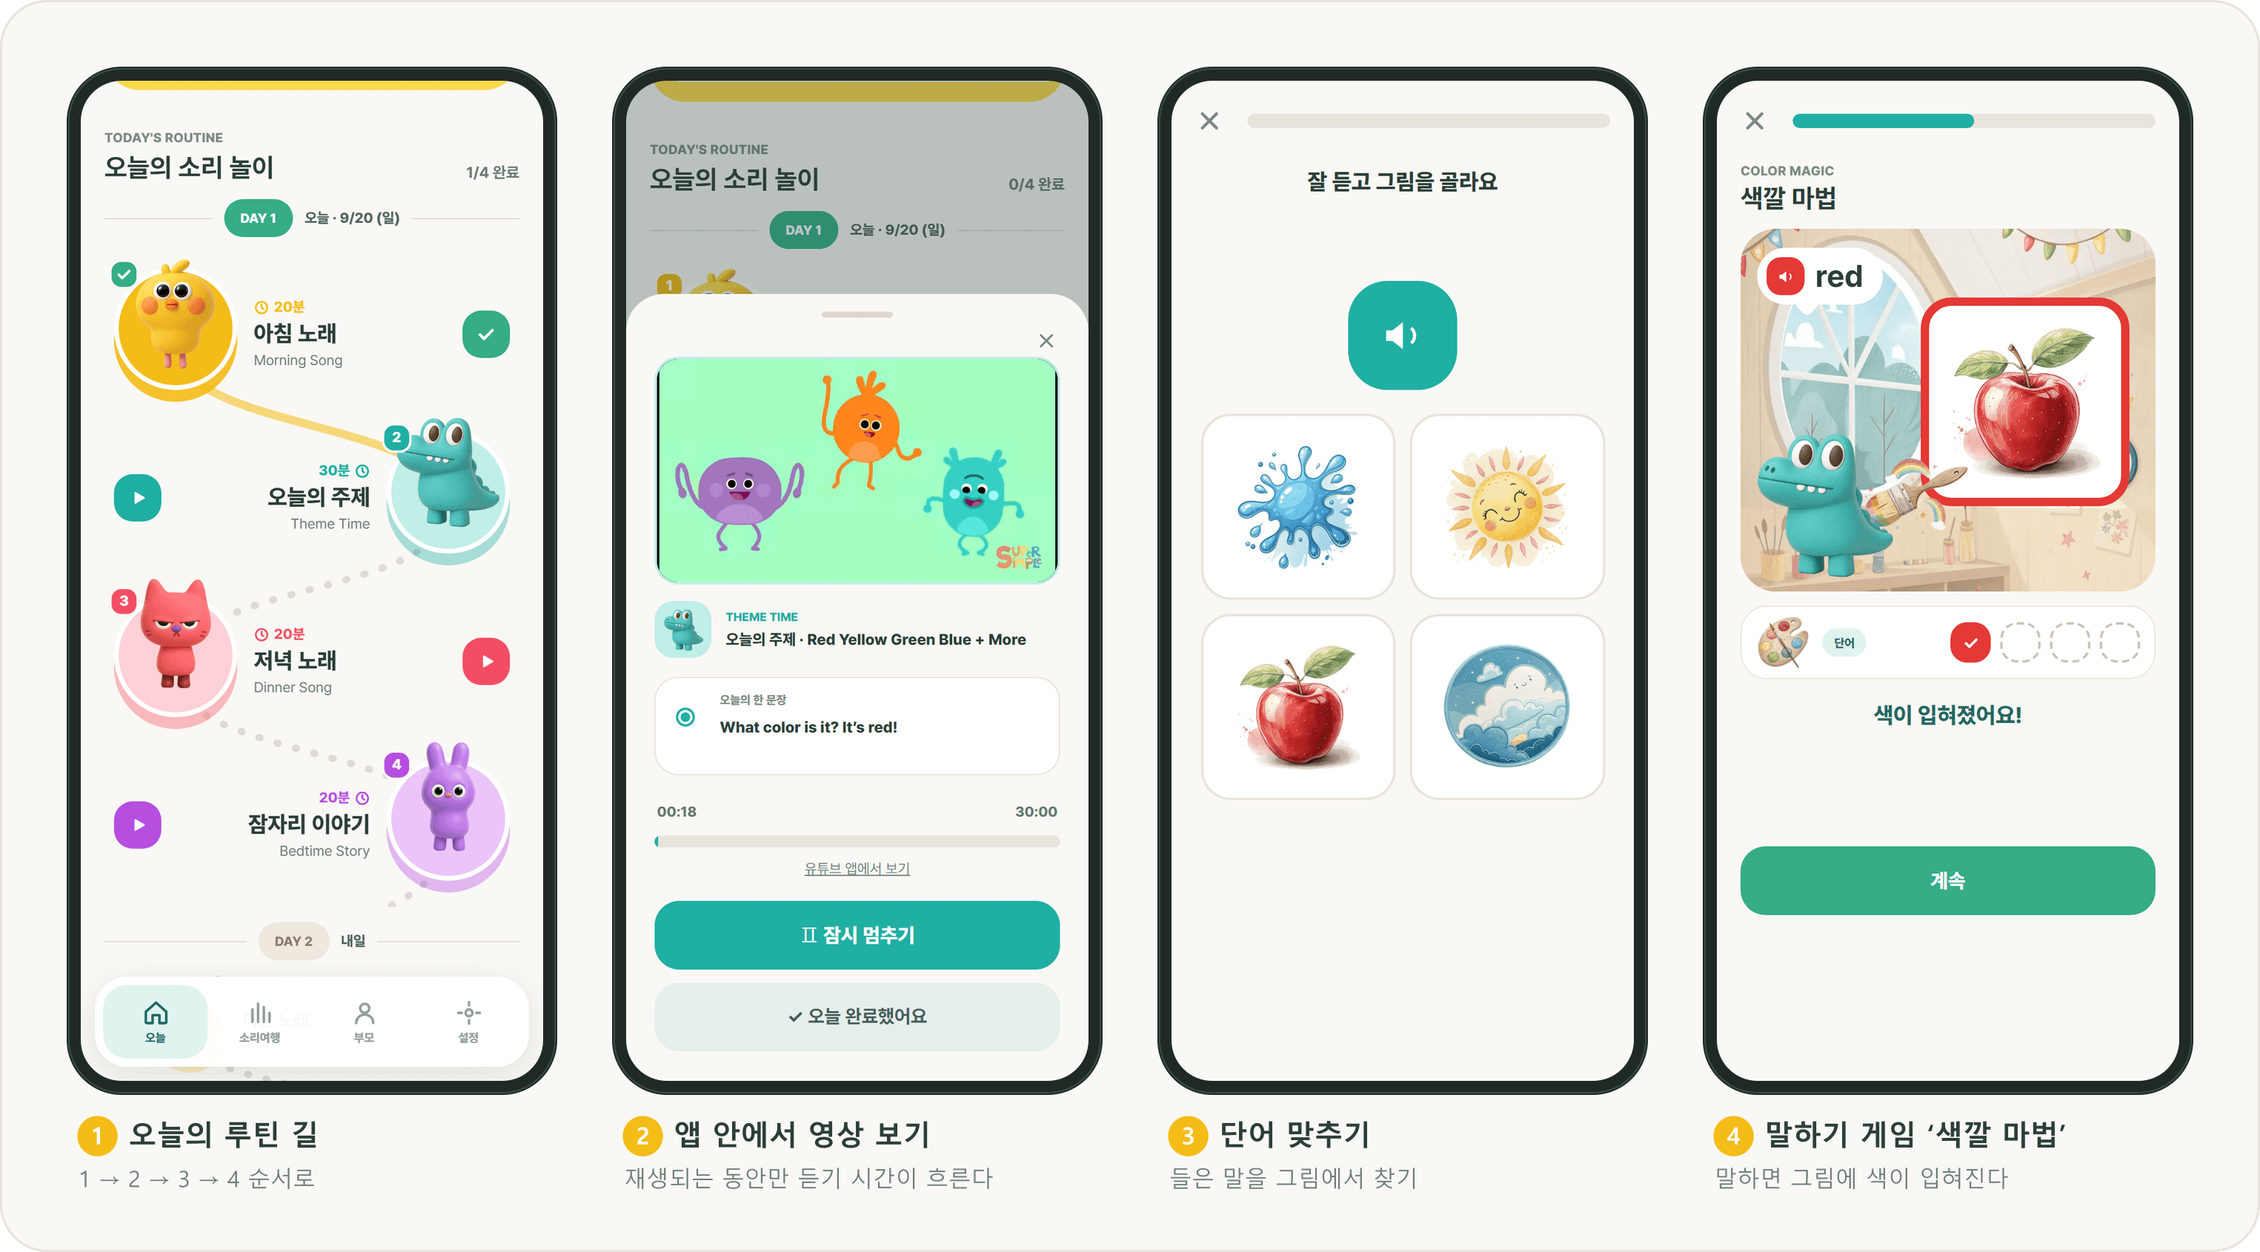
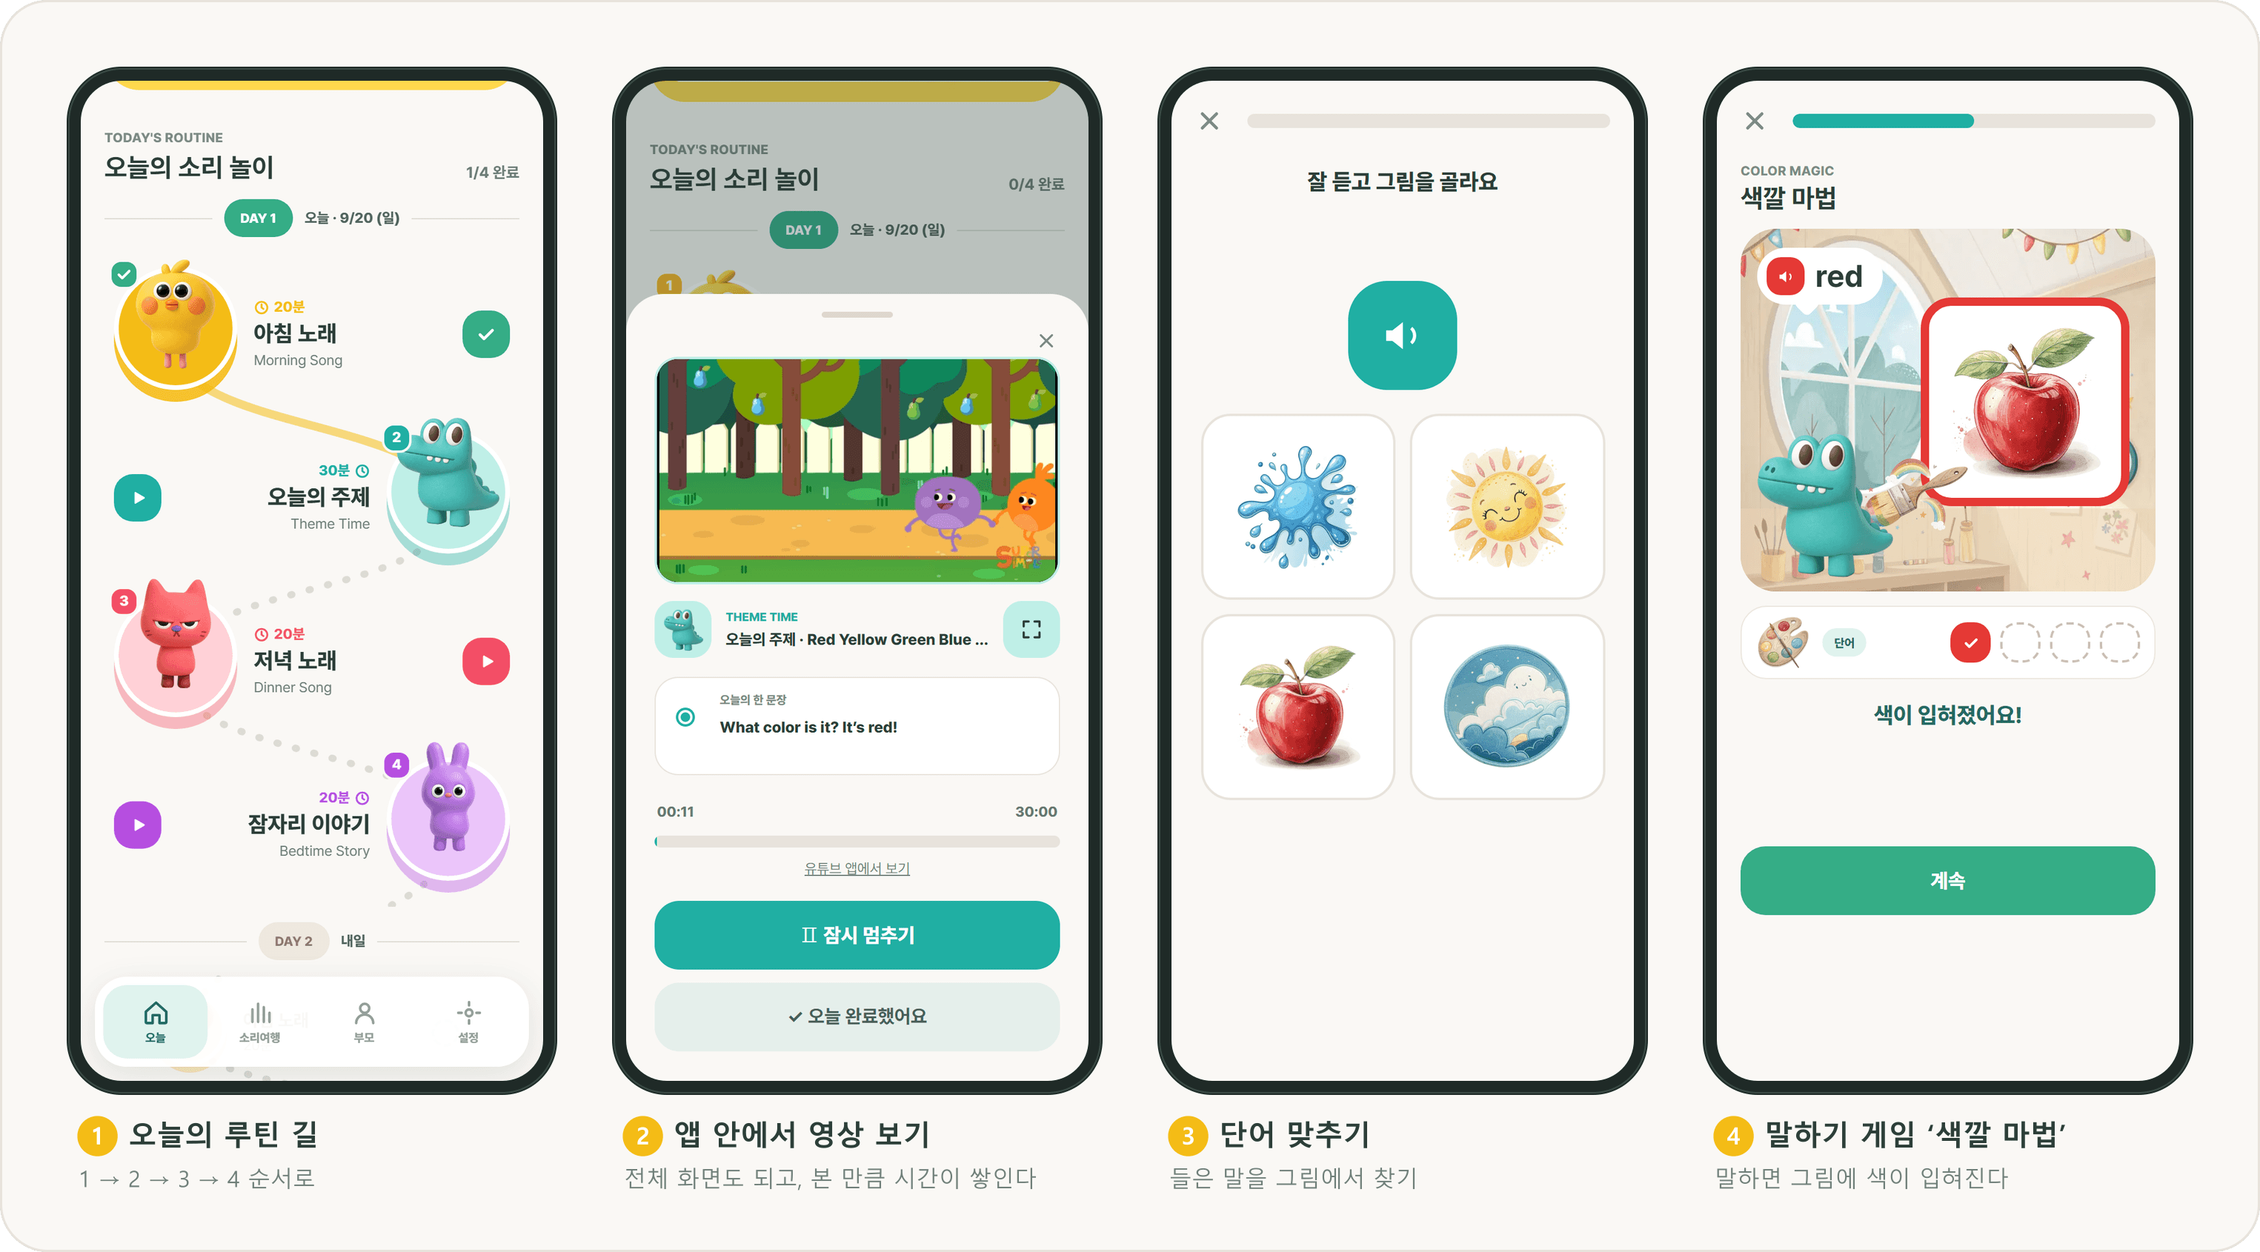
Make the in-app video start reliably and add fullscreen
- Uncover the player when autoplay is blocked or loading stalls, so the YouTube play button can be tapped
- Fullscreen button in the watching head; native fullscreen always turns landscape (webview patch)
- Report player page errors; refresh application figure and wording

Changed region(s): [[0.2803, 0.2769, 0.4672, 0.5231], [0.2803, 0.9231, 0.4672, 0.9538], [0.3115, 0.2154, 0.3426, 0.2462]]

diff --git a/apps/mobile/src/features/today/ui/RoutinePlayer.tsx b/apps/mobile/src/features/today/ui/RoutinePlayer.tsx
@@ -1,9 +1,10 @@
 import { Image } from 'expo-image';
+import type { Ref } from 'react';
 import { StyleSheet, View } from 'react-native';
 
 import type { RoutineDef } from '@/entities/content/types';
 import { strings } from '@/shared/i18n/strings.ko';
-import { YoutubePlayer } from '@/shared/platform/youtube/YoutubePlayer';
+import { YoutubePlayer, type YoutubePlayerHandle } from '@/shared/platform/youtube/YoutubePlayer';
 import { thumbnailUrl, type PlayerState } from '@/shared/platform/youtube/youtubeEmbed';
 import { AppText } from '@/shared/ui/AppText';
 import { Appear } from '@/shared/ui/Appear';
@@ -15,6 +16,7 @@ import { colors, sizes, tones } from '@/shared/theme/tokens';
 import type { PlayerPhase } from '../model/useRoutinePlayback';
 
 interface Props {
+  playerRef: Ref<YoutubePlayerHandle>;
   routine: RoutineDef;
   phase: PlayerPhase;
   wantPlay: boolean;
@@ -24,7 +26,7 @@ interface Props {
   onOpenOutside: () => void;
 }
 
-const COVER_TEXT: Record<Exclude<PlayerPhase, 'playing'>, string> = {
+const COVER_TEXT: Record<Exclude<PlayerPhase, 'playing' | 'manual'>, string> = {
   loading: strings.sheet.loading,
   paused: strings.sheet.tapToPlay,
   ended: strings.sheet.ended,
@@ -35,19 +37,29 @@ const COVER_TEXT: Record<Exclude<PlayerPhase, 'playing'>, string> = {
  * 시트 안의 영상 칸. 재생 중에만 유튜브 화면이 드러나고,
  * 멈추면 우리 덮개가 위를 가려서 유튜브의 추천 영상이 아이에게 보이지 않는다.
  */
-export function RoutinePlayer({ routine, phase, wantPlay, onState, onError, onPlay, onOpenOutside }: Props) {
+export function RoutinePlayer({ playerRef, routine, phase, wantPlay, onState, onError, onPlay, onOpenOutside }: Props) {
   const tone = tones[routine.tone];
   const thumbnail = thumbnailUrl(routine.video);
   const blocked = phase === 'blocked';
   // 멈춘 동안에는 덮개 어디를 눌러도 이어진다
   const tappable = phase === 'paused' || phase === 'ended';
+  const uncovered = phase === 'playing' || phase === 'manual';
 
   return (
     <Appear style={[styles.frame, { borderColor: tone.p }]}>
-      {blocked ? null : <YoutubePlayer source={routine.video} playing={wantPlay} onState={onState} onError={onError} />}
+      {blocked ? null : <YoutubePlayer ref={playerRef} source={routine.video} playing={wantPlay} onState={onState} onError={onError} />}
 
-      {phase === 'playing' ? null : (
-        <Pressy onPress={onPlay} disabled={!tappable} pressedScale={1} style={[styles.cover, { backgroundColor: tone.p }]} accessibilityLabel={COVER_TEXT[phase]}>
+      {uncovered ? (
+        phase === 'manual' ? (
+          <View style={styles.hint} pointerEvents="none">
+            <Icon name="play" size={12} color={colors.surface} />
+            <AppText variant="micro" color={colors.surface}>
+              {strings.sheet.tapVideo}
+            </AppText>
+          </View>
+        ) : null
+      ) : (
+        <Pressy onPress={onPlay} disabled={!tappable} pressedScale={1} style={[styles.cover, { backgroundColor: tone.p }]} accessibilityLabel={COVER_TEXT[phase as keyof typeof COVER_TEXT]}>
           {thumbnail && !blocked ? <Image source={thumbnail} style={StyleSheet.absoluteFill} contentFit="cover" /> : null}
           <View style={styles.dim} />
           {phase === 'loading' || blocked ? (
@@ -58,7 +70,7 @@ export function RoutinePlayer({ routine, phase, wantPlay, onState, onError, onPl
             </View>
           )}
           <AppText variant="captionStrong" color={colors.surface} style={styles.coverText}>
-            {COVER_TEXT[phase]}
+            {COVER_TEXT[phase as keyof typeof COVER_TEXT]}
           </AppText>
           {blocked ? (
             <Pressy onPress={onOpenOutside} style={styles.outside}>
@@ -81,5 +93,6 @@ const styles = StyleSheet.create({
   dim: { ...fillParent, backgroundColor: colors.videoDim },
   play: { width: 64, height: 64, borderRadius: 32, alignItems: 'center', justifyContent: 'center', paddingLeft: 3 },
   coverText: { textAlign: 'center', paddingHorizontal: 24 },
+  hint: { position: 'absolute', alignSelf: 'center', bottom: 10, flexDirection: 'row', alignItems: 'center', gap: 6, paddingVertical: 6, paddingHorizontal: 10, borderRadius: 14, backgroundColor: colors.videoChip },
   outside: { minHeight: sizes.touch, paddingHorizontal: 20, borderRadius: 22, alignItems: 'center', justifyContent: 'center', backgroundColor: colors.surface },
 });

diff --git a/apps/mobile/src/features/today/model/useRoutinePlayback.ts b/apps/mobile/src/features/today/model/useRoutinePlayback.ts
@@ -18,7 +18,13 @@ import type { Station } from './todayState';
 import { TIME_SCALE, useRoutineTimer, type RoutineTimer } from './useRoutineTimer';
 
 /** 화면 안 플레이어가 지금 보여 줄 모습 */
-export type PlayerPhase = 'loading' | 'playing' | 'paused' | 'ended' | 'blocked';
+export type PlayerPhase = 'loading' | 'manual' | 'playing' | 'paused' | 'ended' | 'blocked';
+
+/** 재생 명령 뒤 이만큼 기다려도 시작되지 않으면 자동재생이 막힌 것으로 본다 */
+const AUTOPLAY_WAIT_MS = 1800;
+
+/** 플레이어가 이만큼 지나도 준비되지 않으면 덮개를 걷어 안에서 무슨 일이 있는지 보이게 한다 */
+const READY_WAIT_MS = 9000;
 
 export interface RoutinePlayback {
   timer: RoutineTimer;
@@ -49,6 +55,7 @@ export function useRoutinePlayback(station: Station, onClose: () => void): Routi
   const [watching, setWatching] = useState(false);
   const [wantPlay, setWantPlay] = useState(false);
   const [phase, setPhase] = useState<PlayerPhase>('loading');
+  const [playerReady, setPlayerReady] = useState(false);
   const outside = useRef(false);
 
   const startClock = () => {
@@ -82,6 +89,19 @@ export function useRoutinePlayback(station: Station, onClose: () => void): Routi
     toast(fmt(strings.sheet.reached, { n: routine.targetMinutes }));
   }, [timer.reached, done, date, routine]);
 
+  // 브라우저와 휴대폰은 소리 나는 자동재생을 막곤 한다. 그때는 덮개를 걷어 유튜브의 재생 버튼을 직접 누르게 한다
+  useEffect(() => {
+    if (!playerReady || !wantPlay || phase === 'playing' || phase === 'blocked') return;
+    const timeout = setTimeout(() => setPhase('manual'), AUTOPLAY_WAIT_MS);
+    return () => clearTimeout(timeout);
+  }, [playerReady, wantPlay, phase]);
+
+  useEffect(() => {
+    if (!watching || playerReady) return;
+    const timeout = setTimeout(() => setPhase((current) => (current === 'loading' ? 'manual' : current)), READY_WAIT_MS);
+    return () => clearTimeout(timeout);
+  }, [watching, playerReady]);
+
   // 시트를 닫거나 앱을 내리면 화면 안 영상은 멈추므로 시간도 멈춘다
   useEffect(() => {
     const halt = () => {
@@ -100,6 +120,7 @@ export function useRoutinePlayback(station: Station, onClose: () => void): Routi
     if (state === 'buffering') return;
     if (state === 'ready') {
       // 준비가 끝났을 뿐이다. 시작을 눌러 둔 재생 명령은 그대로 둔다
+      setPlayerReady(true);
       if (!wantPlay) setPhase('paused');
       return;
     }

diff --git a/apps/mobile/src/features/today/ui/RoutineSheetParts.tsx b/apps/mobile/src/features/today/ui/RoutineSheetParts.tsx
@@ -5,6 +5,8 @@ import { strings } from '@/shared/i18n/strings.ko';
 import { formatClock } from '@/shared/lib/format';
 import { AppText } from '@/shared/ui/AppText';
 import { Character } from '@/shared/ui/Character';
+import { Icon } from '@/shared/ui/icons';
+import { Pressy } from '@/shared/ui/Pressy';
 import { colors, sizes, tones } from '@/shared/theme/tokens';
 
 import type { RoutineTimer } from '../model/useRoutineTimer';
@@ -33,7 +35,7 @@ export function RoutineHead({ routine, float }: { routine: RoutineDef; float: bo
 }
 
 /** 보는 중 머리: 영상에 자리를 내주고 한 줄로 줄어든다 */
-export function WatchingHead({ routine }: { routine: RoutineDef }) {
+export function WatchingHead({ routine, onFullscreen }: { routine: RoutineDef; onFullscreen: () => void }) {
   const tone = tones[routine.tone];
   return (
     <View style={styles.watching}>
@@ -48,6 +50,9 @@ export function WatchingHead({ routine }: { routine: RoutineDef }) {
           {routine.title} · {routine.video.title}
         </AppText>
       </View>
+      <Pressy onPress={onFullscreen} style={[styles.fullscreen, { backgroundColor: tone.p }]} accessibilityLabel={strings.sheet.fullscreen}>
+        <Icon name="expand" size={20} color={colors.ink} strokeWidth={2.2} />
+      </Pressy>
     </View>
   );
 }
@@ -96,6 +101,7 @@ const styles = StyleSheet.create({
   watching: { flexDirection: 'row', alignItems: 'center', gap: 12, marginTop: 14 },
   watchTile: { width: sizes.watchTile, height: sizes.watchTile, borderRadius: 16, alignItems: 'center', justifyContent: 'center' },
   watchText: { flex: 1, gap: 4 },
+  fullscreen: { width: sizes.watchTile, height: sizes.watchTile, borderRadius: 16, alignItems: 'center', justifyContent: 'center' },
   sentence: { flexDirection: 'row', alignItems: 'flex-start', gap: 21, minHeight: 83, paddingTop: 12, paddingBottom: 12, paddingLeft: 17, paddingRight: 16, borderWidth: 1, borderColor: colors.lineSoft, borderRadius: 20, backgroundColor: colors.surface },
   dot: { width: 16, height: 16, borderRadius: 8, borderWidth: 2, alignItems: 'center', justifyContent: 'center', marginTop: 13 },
   dotCore: { width: 8, height: 8, borderRadius: 4 },

diff --git a/apps/mobile/src/shared/platform/youtube/YoutubePlayer.tsx b/apps/mobile/src/shared/platform/youtube/YoutubePlayer.tsx
@@ -1,14 +1,17 @@
-import { useEffect, useMemo, useRef, useState } from 'react';
+import { useEffect, useImperativeHandle, useMemo, useRef, useState } from 'react';
 import { StyleSheet } from 'react-native';
 import { WebView, type WebViewMessageEvent } from 'react-native-webview';
 
 import { EMBED_ORIGIN, parseMessage, playerHtml, type YoutubePlayerProps } from './youtubeEmbed';
 
+export type { YoutubePlayerHandle } from './youtubeEmbed';
+
 const command = (playing: boolean) => `player && player.${playing ? 'playVideo' : 'pauseVideo'}(); true;`;
 
 /** 앱에서는 WebView 안에 유튜브 플레이어를 띄운다 (웹은 YoutubePlayer.web.tsx) */
-export function YoutubePlayer({ source, playing, onState, onError }: YoutubePlayerProps) {
+export function YoutubePlayer({ ref: handle, source, playing, onState, onError }: YoutubePlayerProps) {
   const ref = useRef<WebView>(null);
+  useImperativeHandle(handle, () => ({ enterFullscreen: () => ref.current?.injectJavaScript('enterFullscreen(); true;') }), []);
   const [ready, setReady] = useState(false);
   const html = useMemo(() => playerHtml(source), [source]);
 
@@ -18,7 +21,11 @@ export function YoutubePlayer({ source, playing, onState, onError }: YoutubePlay
 
   const onMessage = (event: WebViewMessageEvent) => {
     const message = parseMessage(event.nativeEvent.data);
-    if (!message) return;
+    if (!message) {
+      // 플레이어 페이지 안에서 난 오류는 기기 로그에 남겨 둔다
+      if (event.nativeEvent.data.includes('"log"')) console.warn('[youtube]', event.nativeEvent.data);
+      return;
+    }
     if (message.type === 'error') return onError(message.code);
     if (message.state === 'ready') setReady(true);
     onState(message.state);

diff --git a/apps/mobile/src/shared/platform/youtube/youtubeEmbed.ts b/apps/mobile/src/shared/platform/youtube/youtubeEmbed.ts
@@ -1,3 +1,5 @@
+import type { Ref } from 'react';
+
 import appConfig from '@/content/app-config.json';
 
 export interface YoutubeSource {
@@ -9,7 +11,12 @@ export type PlayerState = 'ready' | 'playing' | 'paused' | 'buffering' | 'ended'
 
 export type PlayerMessage = { type: 'state'; state: PlayerState } | { type: 'error'; code: number };
 
+export interface YoutubePlayerHandle {
+  enterFullscreen: () => void;
+}
+
 export interface YoutubePlayerProps {
+  ref?: Ref<YoutubePlayerHandle>;
   source: YoutubeSource;
   /** 바깥에서 정하는 재생 여부. 플레이어 안에서 바뀐 것은 onState 로 알려 준다 */
   playing: boolean;
@@ -63,6 +70,8 @@ export function playerHtml(source: YoutubeSource): string {
 <div id="player"></div>
 <script>
 var player;
+function enterFullscreen(){var f=document.querySelector('iframe')||document.getElementById('player');var go=f.requestFullscreen||f.webkitRequestFullscreen;if(go)go.call(f);}
+window.onerror=function(m){send({type:'log',text:String(m)});};
 function send(message){window.ReactNativeWebView.postMessage(JSON.stringify(message));}
 function onYouTubeIframeAPIReady(){
   var options=${JSON.stringify(options)};
@@ -74,7 +83,7 @@ function onYouTubeIframeAPIReady(){
   player=new YT.Player('player',options);
 }
 </script>
-<script src="https://www.youtube.com/iframe_api"></script>
+<script src="https://www.youtube.com/iframe_api" onerror="send({type:'error',code:0})"></script>
 </body>
 </html>`;
 }

diff --git a/apps/mobile/src/features/today/ui/RoutineSheet.tsx b/apps/mobile/src/features/today/ui/RoutineSheet.tsx
@@ -1,6 +1,8 @@
+import { useRef } from 'react';
 import { StyleSheet, View } from 'react-native';
 
 import { strings } from '@/shared/i18n/strings.ko';
+import type { YoutubePlayerHandle } from '@/shared/platform/youtube/YoutubePlayer';
 import { AppText } from '@/shared/ui/AppText';
 import { PrimaryButton, SoftButton } from '@/shared/ui/Form';
 import { Pressy } from '@/shared/ui/Pressy';
@@ -24,12 +26,14 @@ function SheetBody({ station, onClose }: { station: Station; onClose: () => void
   const { timer, done, watching } = playback;
   const active = playback.wantPlay || timer.running;
   const showPlayer = watching && !done;
+  const player = useRef<YoutubePlayerHandle>(null);
 
   return (
     <View>
       {showPlayer ? (
         <>
           <RoutinePlayer
+            playerRef={player}
             routine={routine}
             phase={playback.phase}
             wantPlay={playback.wantPlay}
@@ -38,7 +42,7 @@ function SheetBody({ station, onClose }: { station: Station; onClose: () => void
             onPlay={playback.toggle}
             onOpenOutside={playback.openOutside}
           />
-          <WatchingHead routine={routine} />
+          <WatchingHead routine={routine} onFullscreen={() => player.current?.enterFullscreen()} />
         </>
       ) : (
         <RoutineHead routine={routine} float={timer.running} />

diff --git a/apps/mobile/src/shared/platform/youtube/YoutubePlayer.web.tsx b/apps/mobile/src/shared/platform/youtube/YoutubePlayer.web.tsx
@@ -1,6 +1,8 @@
-import { useEffect, useRef, useState, type CSSProperties } from 'react';
+import { useEffect, useImperativeHandle, useRef, useState, type CSSProperties } from 'react';
 
 import { playerVars, stateFromCode, type YoutubePlayerProps } from './youtubeEmbed';
+
+export type { YoutubePlayerHandle } from './youtubeEmbed';
 
 interface Player {
   playVideo(): void;
@@ -35,8 +37,9 @@ function loadApi(): Promise<YoutubeApi> {
 
 const fill: CSSProperties = { width: '100%', height: '100%', background: '#000' };
 
-export function YoutubePlayer({ source, playing, onState, onError }: YoutubePlayerProps) {
+export function YoutubePlayer({ ref: handle, source, playing, onState, onError }: YoutubePlayerProps) {
   const holder = useRef<HTMLDivElement>(null);
+  useImperativeHandle(handle, () => ({ enterFullscreen: () => void holder.current?.requestFullscreen?.().catch(() => undefined) }), []);
   const player = useRef<Player | null>(null);
   const [ready, setReady] = useState(false);
   const handlers = useRef({ onState, onError });

diff --git a/apps/mobile/src/shared/ui/icons.tsx b/apps/mobile/src/shared/ui/icons.tsx
@@ -21,6 +21,7 @@ const ICONS = {
   logout: [{ d: 'M10 17l5-5-5-5M15 12H3M21 19V5a2 2 0 0 0-2-2h-6' }],
   trash: [{ d: 'M3 6h18M8 6V4h8v2M19 6l-1 15H6L5 6M10 11v6M14 11v6' }],
   close: [{ d: 'M6 6l12 12M18 6 6 18' }],
+  expand: [{ d: 'M4 9V4h5M20 9V4h-5M4 15v5h5M20 15v5h-5' }],
   back: [{ d: 'M15 5l-7 7 7 7' }],
   chevronRight: [{ d: 'M9 5l7 7-7 7' }],
   chevronLeft: [{ d: 'M15 5l-7 7 7 7' }],

diff --git a/apps/mobile/src/shared/i18n/strings.ko.ts b/apps/mobile/src/shared/i18n/strings.ko.ts
@@ -91,6 +91,8 @@ export const strings = {
     blocked: '이 영상은 유튜브에서만 볼 수 있어요',
     openYoutube: '유튜브에서 열기',
     watchOutside: '유튜브 앱에서 보기',
+    tapVideo: '영상 가운데 재생 버튼을 눌러요',
+    fullscreen: '전체 화면으로 보기',
     reached: '{n}분을 다 들었어요!',
   },
   journey: {

diff --git a/apps/mobile/src/shared/theme/tokens.ts b/apps/mobile/src/shared/theme/tokens.ts
@@ -69,6 +69,7 @@ export const colors = {
   completeInk: '#44615A',
   shade: 'rgba(37, 67, 61, 0.3)',
   videoDim: 'rgba(30, 44, 40, 0.42)',
+  videoChip: 'rgba(20, 30, 27, 0.62)',
   handle: '#DED7CE',
   splash: '#2D1B68',
   splashTop: '#412369',
